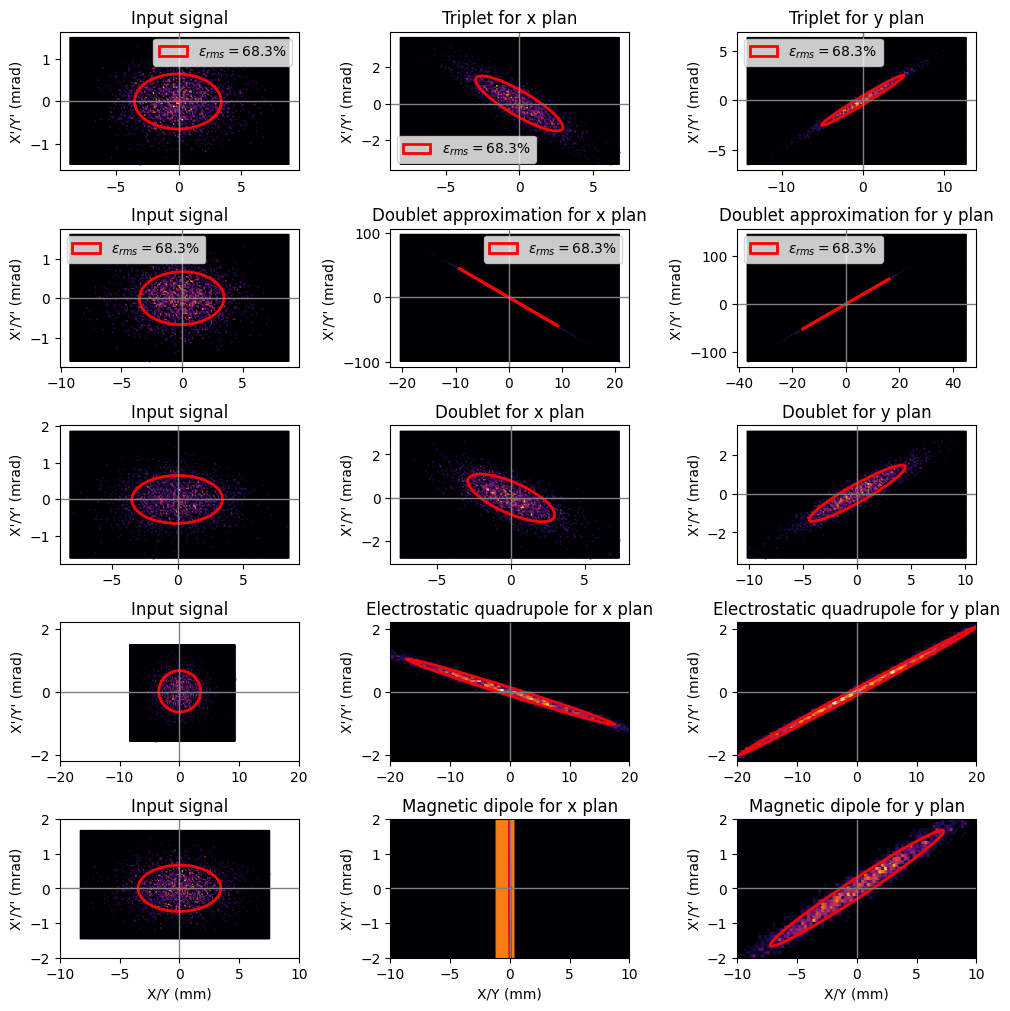
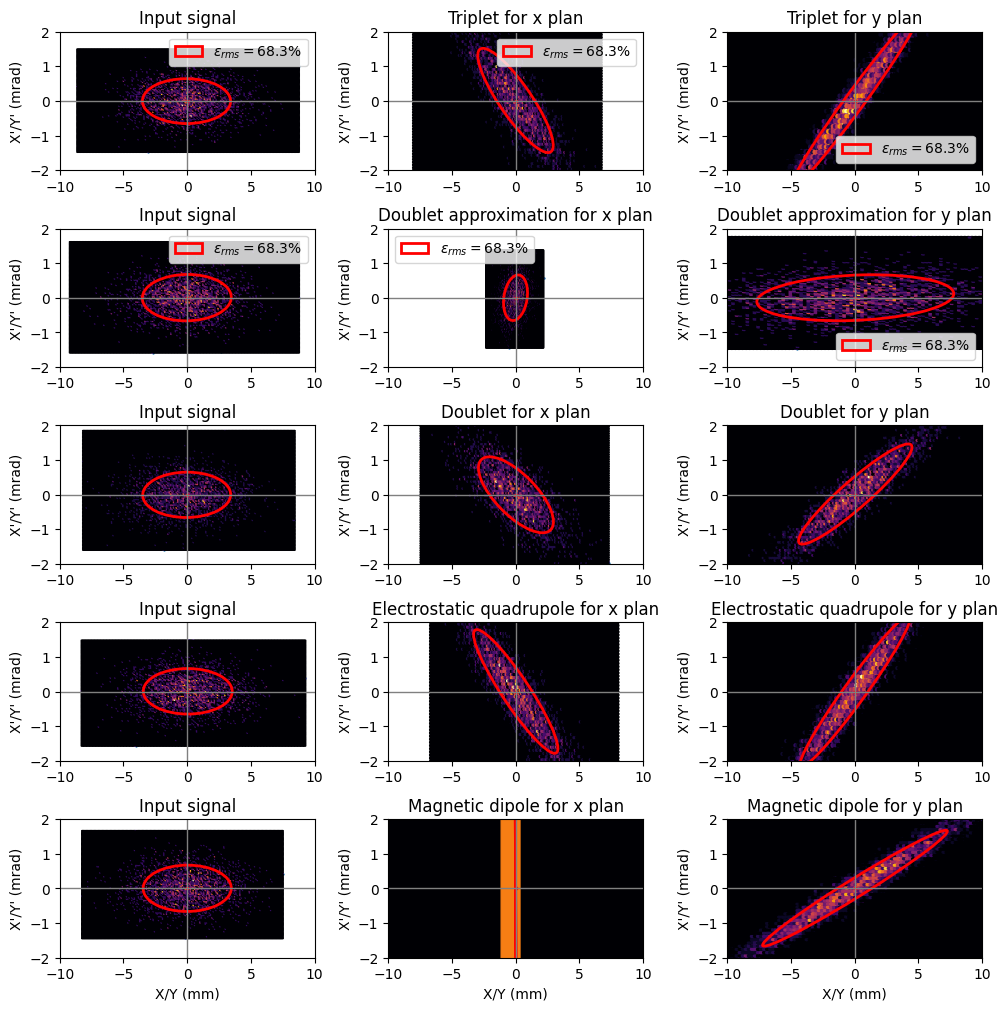
update after report done

diff --git a/confidence_ellipse.py b/confidence_ellipse.py
@@ -18,13 +18,6 @@ import parameters
 
 ###############################################################################
 #
-# Inspired from:
-#
-# https://matplotlib.org/3.1.0/gallery/statistics/confidence_ellipse.html
-
-
-###############################################################################
-#
 # The plotting function itself
 # """"""""""""""""""""""""""""
 #
@@ -204,178 +197,181 @@ QUADRU_TRIPLET = {
 mu = parameters.mu
 scale = parameters.scale
 
-# fig, axs = plt.subplots(nrows=5, ncols=3, figsize=(10, 10), constrained_layout=True)
-# # fig.subplots_adjust(wspace=0.2, hspace=1.3, left=0.07, right=0.93)
+fig, axs = plt.subplots(nrows=5, ncols=3, figsize=(10, 10), constrained_layout=True)
+# fig.subplots_adjust(wspace=0.2, hspace=1.3, left=0.07, right=0.93)
 
-# for ax, (title, dependency) in zip(axs[0], QUADRU_TRIPLET.items()):
-#     x, y = get_correlated_dataset(5000, dependency, mu, scale)
-#     ax.scatter(x, y, s=0.5)
+for ax, (title, dependency) in zip(axs[0], QUADRU_TRIPLET.items()):
+    x, y = get_correlated_dataset(5000, dependency, mu, scale)
+    ax.scatter(x, y, s=0.5)
 
-#     ax.axvline(c='grey', lw=1)
-#     ax.axhline(c='grey', lw=1)
+    ax.axvline(c='grey', lw=1)
+    ax.axhline(c='grey', lw=1)
 
-#     ax.hexbin(x, y, gridsize=150, cmap='inferno')
-#     confidence_ellipse(x, y, ax, label=r'$\epsilon_{rms}=68.3\%$', edgecolor='red', linewidth=2)
+    ax.hexbin(x, y, gridsize=150, cmap='inferno')
+    confidence_ellipse(x, y, ax, label=r'$\epsilon_{rms}=68.3\%$', edgecolor='red', linewidth=2)
 
-#     ax.scatter(mu[0], mu[1], c='red', s=3)
-#     ax.set_title(title)
+    ax.scatter(mu[0], mu[1], c='red', s=3)
+    ax.set_title(title)
+    ax.set_xlim((-10, 10))
+    ax.set_ylim((-2, 2))
+    ax.set_ylabel("X'/Y' (mrad)")
+    ax.legend()
 
-#     ax.set_ylabel("X'/Y' (mrad)")
-#     ax.legend()
+for ax, (title, dependency) in zip(axs[1], QUADRU_DOUBLET_APPROX.items()):
+    x, y = get_correlated_dataset(5000, dependency, mu, scale)
+    ax.scatter(x, y, s=0.5)
 
-# for ax, (title, dependency) in zip(axs[1], QUADRU_DOUBLET_APPROX.items()):
-#     x, y = get_correlated_dataset(5000, dependency, mu, scale)
-#     ax.scatter(x, y, s=0.5)
+    ax.axvline(c='grey', lw=1)
+    ax.axhline(c='grey', lw=1)
 
-#     ax.axvline(c='grey', lw=1)
-#     ax.axhline(c='grey', lw=1)
+    ax.hexbin(x, y, gridsize=150, cmap='inferno')
+    confidence_ellipse(x, y, ax, label=r'$\epsilon_{rms}=68.3\%$', edgecolor='red', linewidth=2)
 
-#     ax.hexbin(x, y, gridsize=150, cmap='inferno')
-#     confidence_ellipse(x, y, ax, label=r'$\epsilon_{rms}=68.3\%$', edgecolor='red', linewidth=2)
+    ax.scatter(mu[0], mu[1], c='red', s=3)
+    ax.set_title(title)
+    ax.set_xlim((-10, 10))
+    ax.set_ylim((-2, 2))
+    ax.set_ylabel("X'/Y' (mrad)")
+    ax.legend()
 
-#     ax.scatter(mu[0], mu[1], c='red', s=3)
-#     ax.set_title(title)
+# fig, axs = plt.subplots(1, 3, figsize=(10, 10))
+for ax, (title, dependency) in zip(axs[2], QUADRU_DOUBLET.items()):
+    x, y = get_correlated_dataset(5000, dependency, mu, scale)
+    ax.scatter(x, y, s=0.5)
 
-#     ax.set_ylabel("X'/Y' (mrad)")
-#     ax.legend()
+    ax.axvline(c='grey', lw=1)
+    ax.axhline(c='grey', lw=1)
 
-# # fig, axs = plt.subplots(1, 3, figsize=(10, 10))
-# for ax, (title, dependency) in zip(axs[2], QUADRU_DOUBLET.items()):
-#     x, y = get_correlated_dataset(5000, dependency, mu, scale)
-#     ax.scatter(x, y, s=0.5)
+    ax.hexbin(x, y, gridsize=150, cmap='inferno')
+    confidence_ellipse(x, y, ax, edgecolor='red', linewidth=2)
 
-#     ax.axvline(c='grey', lw=1)
-#     ax.axhline(c='grey', lw=1)
+    ax.scatter(mu[0], mu[1], c='red', s=3)
+    ax.set_title(title)
+    ax.set_xlim((-10, 10))
+    ax.set_ylim((-2, 2))
+    ax.set_ylabel("X'/Y' (mrad)")
 
-#     ax.hexbin(x, y, gridsize=150, cmap='inferno')
-#     confidence_ellipse(x, y, ax, edgecolor='red', linewidth=2)
+# fig, axs = plt.subplots(1, 3, figsize=(10, 10))
+for ax, (title, dependency) in zip(axs[3], QUADRUPOLE.items()):
+    x, y = get_correlated_dataset(5000, dependency, mu, scale, label='Dataset')
+    ax.scatter(x, y, s=0.5)
 
-#     ax.scatter(mu[0], mu[1], c='red', s=3)
-#     ax.set_title(title)
+    ax.axvline(c='grey', lw=1)
+    ax.axhline(c='grey', lw=1)
 
-#     ax.set_ylabel("X'/Y' (mrad)")
+    ax.hexbin(x, y, gridsize=150, cmap='inferno')
+    confidence_ellipse(x, y, ax, edgecolor='red', linewidth=2)
 
-# # fig, axs = plt.subplots(1, 3, figsize=(10, 10))
-# for ax, (title, dependency) in zip(axs[3], QUADRUPOLE.items()):
-#     x, y = get_correlated_dataset(5000, dependency, mu, scale, label='Dataset')
-#     ax.scatter(x, y, s=0.5)
+    ax.scatter(mu[0], mu[1], c='red', s=3)
+    ax.set_title(title)
 
-#     ax.axvline(c='grey', lw=1)
-#     ax.axhline(c='grey', lw=1)
+    ax.set_xlim((-10, 10))
+    ax.set_ylim((-2, 2))
 
-#     ax.hexbin(x, y, gridsize=150, cmap='inferno')
-#     confidence_ellipse(x, y, ax, edgecolor='red', linewidth=2)
-
-#     ax.scatter(mu[0], mu[1], c='red', s=3)
-#     ax.set_title(title)
-
-#     ax.set_xlim((-20, 20))
-#     ax.set_ylim((-2.2, 2.2))
-
-#     ax.set_ylabel("X'/Y' (mrad)")
+    ax.set_ylabel("X'/Y' (mrad)")
 
 
-# # fig, axs = plt.subplots(1, 3, figsize=(10, 10))
-# for ax, (title, dependency) in zip(axs[4], DIPOLEMAG.items()):
-#     x, y = get_correlated_dataset(5000, dependency, mu, scale)
-#     ax.scatter(x, y, s=0.5)
+# fig, axs = plt.subplots(1, 3, figsize=(10, 10))
+for ax, (title, dependency) in zip(axs[4], DIPOLEMAG.items()):
+    x, y = get_correlated_dataset(5000, dependency, mu, scale)
+    ax.scatter(x, y, s=0.5)
 
-#     ax.axvline(c='grey', lw=1)
-#     ax.axhline(c='grey', lw=1)
+    ax.axvline(c='grey', lw=1)
+    ax.axhline(c='grey', lw=1)
 
-#     ax.hexbin(x, y, gridsize=150, cmap='inferno')
-#     confidence_ellipse(x, y, ax, edgecolor='red', linewidth=2)
+    ax.hexbin(x, y, gridsize=150, cmap='inferno')
+    confidence_ellipse(x, y, ax, edgecolor='red', linewidth=2)
 
-#     ax.scatter(mu[0], mu[1], c='red', s=3)
-#     ax.set_title(title)
+    ax.scatter(mu[0], mu[1], c='red', s=3)
+    ax.set_title(title)
 
-#     ax.set_xlim((-10, 10))
-#     ax.set_ylim((-2, 2))
-#     ax.set_xlabel('X/Y (mm)')
-#     ax.set_ylabel("X'/Y' (mrad)")
+    ax.set_xlim((-10, 10))
+    ax.set_ylim((-2, 2))
+    ax.set_xlabel('X/Y (mm)')
+    ax.set_ylabel("X'/Y' (mrad)")
 
-# fig.savefig('pics/beams1.png', bbox_inches='tight', dpi=100)
+fig.savefig('pics/beams1.png', bbox_inches='tight', dpi=100)
 
-# fig, axs = plt.subplots(nrows=4, ncols=2, figsize=(10, 10), constrained_layout=True)
-# # fig, axs = plt.subplots(1, 2, figsize=(10, 10))
-# for ax, (title, dependency) in zip(axs[0], EINZEL.items()):
-#     x, y = get_correlated_dataset(5000, dependency, mu, scale)
-#     ax.scatter(x, y, s=0.5)
+fig, axs = plt.subplots(nrows=4, ncols=2, figsize=(10, 10), constrained_layout=True)
+# fig, axs = plt.subplots(1, 2, figsize=(10, 10))
+for ax, (title, dependency) in zip(axs[0], EINZEL.items()):
+    x, y = get_correlated_dataset(5000, dependency, mu, scale)
+    ax.scatter(x, y, s=0.5)
 
-#     ax.axvline(c='grey', lw=1)
-#     ax.axhline(c='grey', lw=1)
+    ax.axvline(c='grey', lw=1)
+    ax.axhline(c='grey', lw=1)
 
-#     ax.hexbin(x, y, gridsize=150, cmap='inferno')
-#     confidence_ellipse(x, y, ax, label=r'$\epsilon_{rms}=68.3\%$', edgecolor='red', linewidth=2)
+    ax.hexbin(x, y, gridsize=150, cmap='inferno')
+    confidence_ellipse(x, y, ax, label=r'$\epsilon_{rms}=68.3\%$', edgecolor='red', linewidth=2)
 
-#     ax.scatter(mu[0], mu[1], c='red', s=3)
-#     ax.set_title(title)
-#     # ax.set_aspect('auto')
-#     ax.set_xlim((-5, 5))
-#     ax.set_ylim((-15, 15))
+    ax.scatter(mu[0], mu[1], c='red', s=3)
+    ax.set_title(title)
+    # ax.set_aspect('auto')
+    ax.set_xlim((-5, 5))
+    ax.set_ylim((-15, 15))
 
-#     ax.set_ylabel("X'/Y' (mrad)")
-#     ax.legend()
+    ax.set_ylabel("X'/Y' (mrad)")
+    ax.legend()
 
-# # fig, axs = plt.subplots(1, 2, figsize=(10, 10))
-# for ax, (title, dependency) in zip(axs[1], LENSDRIFT.items()):
-#     x, y = get_correlated_dataset(5000, dependency, mu, scale)
-#     ax.scatter(x, y, s=0.5)
+# fig, axs = plt.subplots(1, 2, figsize=(10, 10))
+for ax, (title, dependency) in zip(axs[1], LENSDRIFT.items()):
+    x, y = get_correlated_dataset(5000, dependency, mu, scale)
+    ax.scatter(x, y, s=0.5)
 
-#     ax.axvline(c='grey', lw=1)
-#     ax.axhline(c='grey', lw=1)
+    ax.axvline(c='grey', lw=1)
+    ax.axhline(c='grey', lw=1)
 
-#     ax.hexbin(x, y, gridsize=150, cmap='inferno')
-#     confidence_ellipse(x, y, ax, edgecolor='red', linewidth=2)
+    ax.hexbin(x, y, gridsize=150, cmap='inferno')
+    confidence_ellipse(x, y, ax, edgecolor='red', linewidth=2)
 
-#     ax.scatter(mu[0], mu[1], c='red', s=3)
-#     ax.set_title(title)
-#     # ax.set_aspect('auto')
-#     ax.set_xlim((-10, 10))
-#     ax.set_ylim((-20, 20))
+    ax.scatter(mu[0], mu[1], c='red', s=3)
+    ax.set_title(title)
+    # ax.set_aspect('auto')
+    ax.set_xlim((-10, 10))
+    ax.set_ylim((-20, 20))
 
-#     ax.set_ylabel("X'/Y' (mrad)")
+    ax.set_ylabel("X'/Y' (mrad)")
 
-# # fig, axs = plt.subplots(1, 2, figsize=(10, 10))
-# for ax, (title, dependency) in zip(axs[2], LENS.items()):
-#     x, y = get_correlated_dataset(5000, dependency, mu, scale)
-#     ax.scatter(x, y, s=0.5)
+# fig, axs = plt.subplots(1, 2, figsize=(10, 10))
+for ax, (title, dependency) in zip(axs[2], LENS.items()):
+    x, y = get_correlated_dataset(5000, dependency, mu, scale)
+    ax.scatter(x, y, s=0.5)
 
-#     ax.axvline(c='grey', lw=1)
-#     ax.axhline(c='grey', lw=1)
+    ax.axvline(c='grey', lw=1)
+    ax.axhline(c='grey', lw=1)
 
-#     ax.hexbin(x, y, gridsize=150, cmap='inferno')
-#     confidence_ellipse(x, y, ax, edgecolor='red', linewidth=2)
+    ax.hexbin(x, y, gridsize=150, cmap='inferno')
+    confidence_ellipse(x, y, ax, edgecolor='red', linewidth=2)
 
-#     ax.scatter(mu[0], mu[1], c='red', s=3)
-#     ax.set_title(title)
-#     # ax.set_aspect('auto')
-#     ax.set_xlim((-10, 10))
-#     ax.set_ylim((-20, 20))
+    ax.scatter(mu[0], mu[1], c='red', s=3)
+    ax.set_title(title)
+    # ax.set_aspect('auto')
+    ax.set_xlim((-10, 10))
+    ax.set_ylim((-20, 20))
 
-#     ax.set_ylabel("X'/Y' (mrad)")
+    ax.set_ylabel("X'/Y' (mrad)")
 
-# # fig, axs = plt.subplots(1, 2, figsize=(10, 10))
-# for ax, (title, dependency) in zip(axs[3], DRIFT.items()):
-#     x, y = get_correlated_dataset(5000, dependency, mu, scale, label='Dataset')
-#     ax.scatter(x, y, s=0.5)
+# fig, axs = plt.subplots(1, 2, figsize=(10, 10))
+for ax, (title, dependency) in zip(axs[3], DRIFT.items()):
+    x, y = get_correlated_dataset(5000, dependency, mu, scale, label='Dataset')
+    ax.scatter(x, y, s=0.5)
 
-#     ax.axvline(c='grey', lw=1)
-#     ax.axhline(c='grey', lw=1)
-#     ax.hexbin(x, y, gridsize=150, cmap='inferno')
-#     confidence_ellipse(x, y, ax, edgecolor='red', linewidth=2)
+    ax.axvline(c='grey', lw=1)
+    ax.axhline(c='grey', lw=1)
+    ax.hexbin(x, y, gridsize=150, cmap='inferno')
+    confidence_ellipse(x, y, ax, edgecolor='red', linewidth=2)
 
-#     ax.scatter(mu[0], mu[1], c='red', s=3)
-#     ax.set_title(title)
-#     # ax.set_aspect('auto')
-#     ax.set_xlim((-7.5, 7.5))
-#     ax.set_ylim((-2, 2))
-#     ax.set_xlabel('X/Y (mm)')
-#     ax.set_ylabel("X'/Y' (mrad)")
+    ax.scatter(mu[0], mu[1], c='red', s=3)
+    ax.set_title(title)
+    # ax.set_aspect('auto')
+    ax.set_xlim((-7.5, 7.5))
+    ax.set_ylim((-2, 2))
+    ax.set_xlabel('X/Y (mm)')
+    ax.set_ylabel("X'/Y' (mrad)")
 
-# fig.savefig('pics/beams2.png', bbox_inches='tight', dpi=100)
+fig.savefig('pics/beams2.png', bbox_inches='tight', dpi=100)
 
-# plt.show()
+plt.show()
 
 
 ###############################################################################
@@ -388,7 +384,7 @@ scale = parameters.scale
 
 fig, ax_nstd = plt.subplots(figsize=(10, 10), constrained_layout=True)
 
-dependency_nstd = sigma_matrices.Quadru_doubletMP_approx(parameters_calculation.f(parameters.quadru_L, 50, 20000, 0.035), parameters_calculation.f(parameters.quadru_L, 50, 20000, 0.035), parameters.quadru_L, parameters.quadru_drift_L, parameters.quadru_alpha, parameters.quadru_beta, parameters.quadru_gamma, parameters.epsilon)
+dependency_nstd = sigma_matrices.Quadru_tripletPMP(parameters.triplet_k1, parameters.triplet_k2, parameters.triplet_k3, parameters.triplet_Lq1, parameters.triplet_Lq2, parameters.triplet_Lq3, parameters.triplet_Ld1, parameters.triplet_Ld2, parameters.triplet_Ld3, parameters.triplet_alpha, parameters.triplet_beta, parameters.triplet_gamma, parameters.epsilon)
 
 mu = parameters.mu
 scale = parameters.scale

diff --git a/sigma_matrices.py b/sigma_matrices.py
@@ -347,9 +347,3 @@ def Quadru_tripletMPM(k1, k2, k3, Lq1, Lq2, Lq3, Ld1, Ld2, Ld3, a, b, g, eps):
 
 print("")
 print("Triplet of quadrupoles for y plan: \n", Quadru_tripletMPM(parameters.triplet_k1, parameters.triplet_k2, parameters.triplet_k3, parameters.triplet_Lq1, parameters.triplet_Lq2, parameters.triplet_Lq3, parameters.triplet_Ld1, parameters.triplet_Ld2, parameters.triplet_Ld3, parameters.triplet_alpha, parameters.triplet_beta, parameters.triplet_gamma, parameters.epsilon))
-
-zx = abs(Drift(parameters.optim_drift_L, parameters.optim_drift_alpha, parameters.optim_drift_beta, parameters.optim_drift_gamma, parameters.epsilon).dot(LensDrift(parameters_calculation.f(parameters.optim_LensDrift_L, 733, parameters.optim_V, parameters.optim_R), parameters.optim_drift_L + parameters.optim_dist, parameters.LensDrift_alpha, parameters.LensDrift_beta, parameters.LensDrift_gamma, parameters.epsilon))[0][1] + LensDrift(-parameters_calculation.f(parameters.optim_LensDrift_L, 1250, parameters.optim_V, parameters.optim_R), parameters.optim_drift_L, parameters.LensDrift_alpha, parameters.LensDrift_beta, parameters.LensDrift_gamma, parameters.epsilon)[0][1])
-
-zy = abs(Drift(parameters.optim_drift_L, parameters.optim_drift_alpha, parameters.optim_drift_beta, parameters.optim_drift_gamma, parameters.epsilon).dot(LensDrift(-parameters_calculation.f(parameters.optim_LensDrift_L, 733, parameters.optim_V, parameters.optim_R), 2 * parameters.optim_drift_L, parameters.LensDrift_alpha, parameters.LensDrift_beta, parameters.LensDrift_gamma, parameters.epsilon))[0][1] + LensDrift(parameters_calculation.f(parameters.optim_LensDrift_L, 1250, parameters.optim_V, parameters.optim_R), 2 * parameters.optim_drift_L, parameters.LensDrift_alpha, parameters.LensDrift_beta, parameters.LensDrift_gamma, parameters.epsilon)[0][1])
-
-print(zx * zy)
